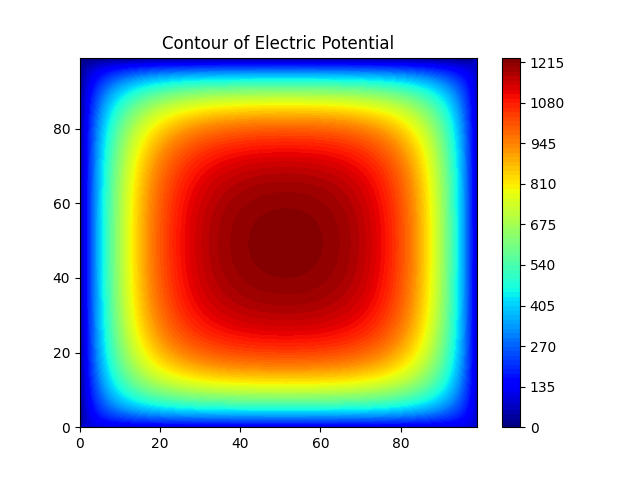
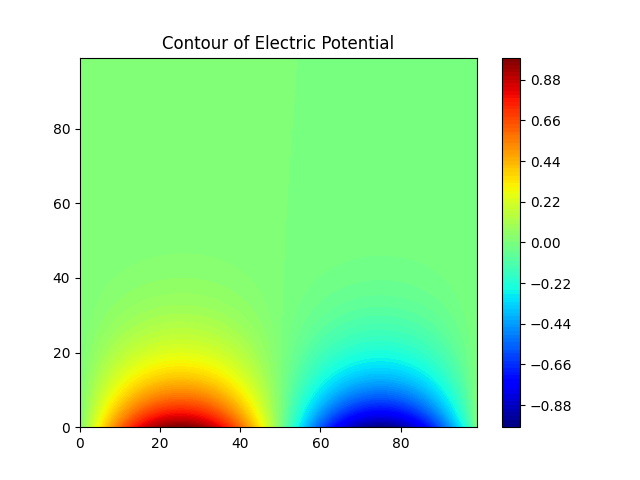
initialization changed

diff --git a/main.py b/main.py
@@ -1,12 +1,20 @@
 import matplotlib.pyplot as plt
 import numpy as np
 
-V_top = 100
-V_bottom = 0
-V_left = 20
-V_right = 80
 
-iteration = 500
+def V_top(x):
+
+    top = np.zeros(len(x))
+
+    for i in range(len(x)):
+        top[i] = np.sin(2 * np.pi * x[i])
+
+    return top
+
+
+V_bottom, V_left, V_right = 0, 0, 0
+
+iteration = 200
 
 
 class Laplace:
@@ -25,7 +33,7 @@ class Laplace:
         V = np.zeros((len(X), len(Y)))
 
         V[: (len(Y) - 1), :] = V_bottom
-        V[:1, :] = V_top
+        V[:1, :] = V_top(np.arange(self.gridsize) / self.gridsize)
         V[:, :1] = V_left
         V[:, (len(X) - 1) :] = V_right
 
@@ -78,7 +86,7 @@ class Laplace:
 
         plt.colorbar()
         plt.savefig("Electric_Potential_contour.png")
-        plt.show()
+        plt.show(block=False)
 
     def Plot_vf(self, X, Y, Ex, Ey):
         plt.title("Electric Vector Field")
@@ -86,7 +94,7 @@ class Laplace:
         plt.ylabel("y")
         plt.quiver(X, Y, Ex * X, Ey * Y)
         plt.savefig("Electric_field.png")
-        plt.show()
+        plt.show(block=False)
 
     def Normal(self, X, Y):
         path = np.zeros((len(X), len(Y)))
@@ -119,7 +127,7 @@ class Laplace:
 
 
 def main():
-    sheet = Laplace(100, 1, 5, 500)
+    sheet = Laplace(100, 1, 0, 500)
     X, Y = sheet.Meshgrid()
     V = sheet.Dirichlet_BC(X, Y)
     Ex, Ey = sheet.iterative(V, X, Y)
